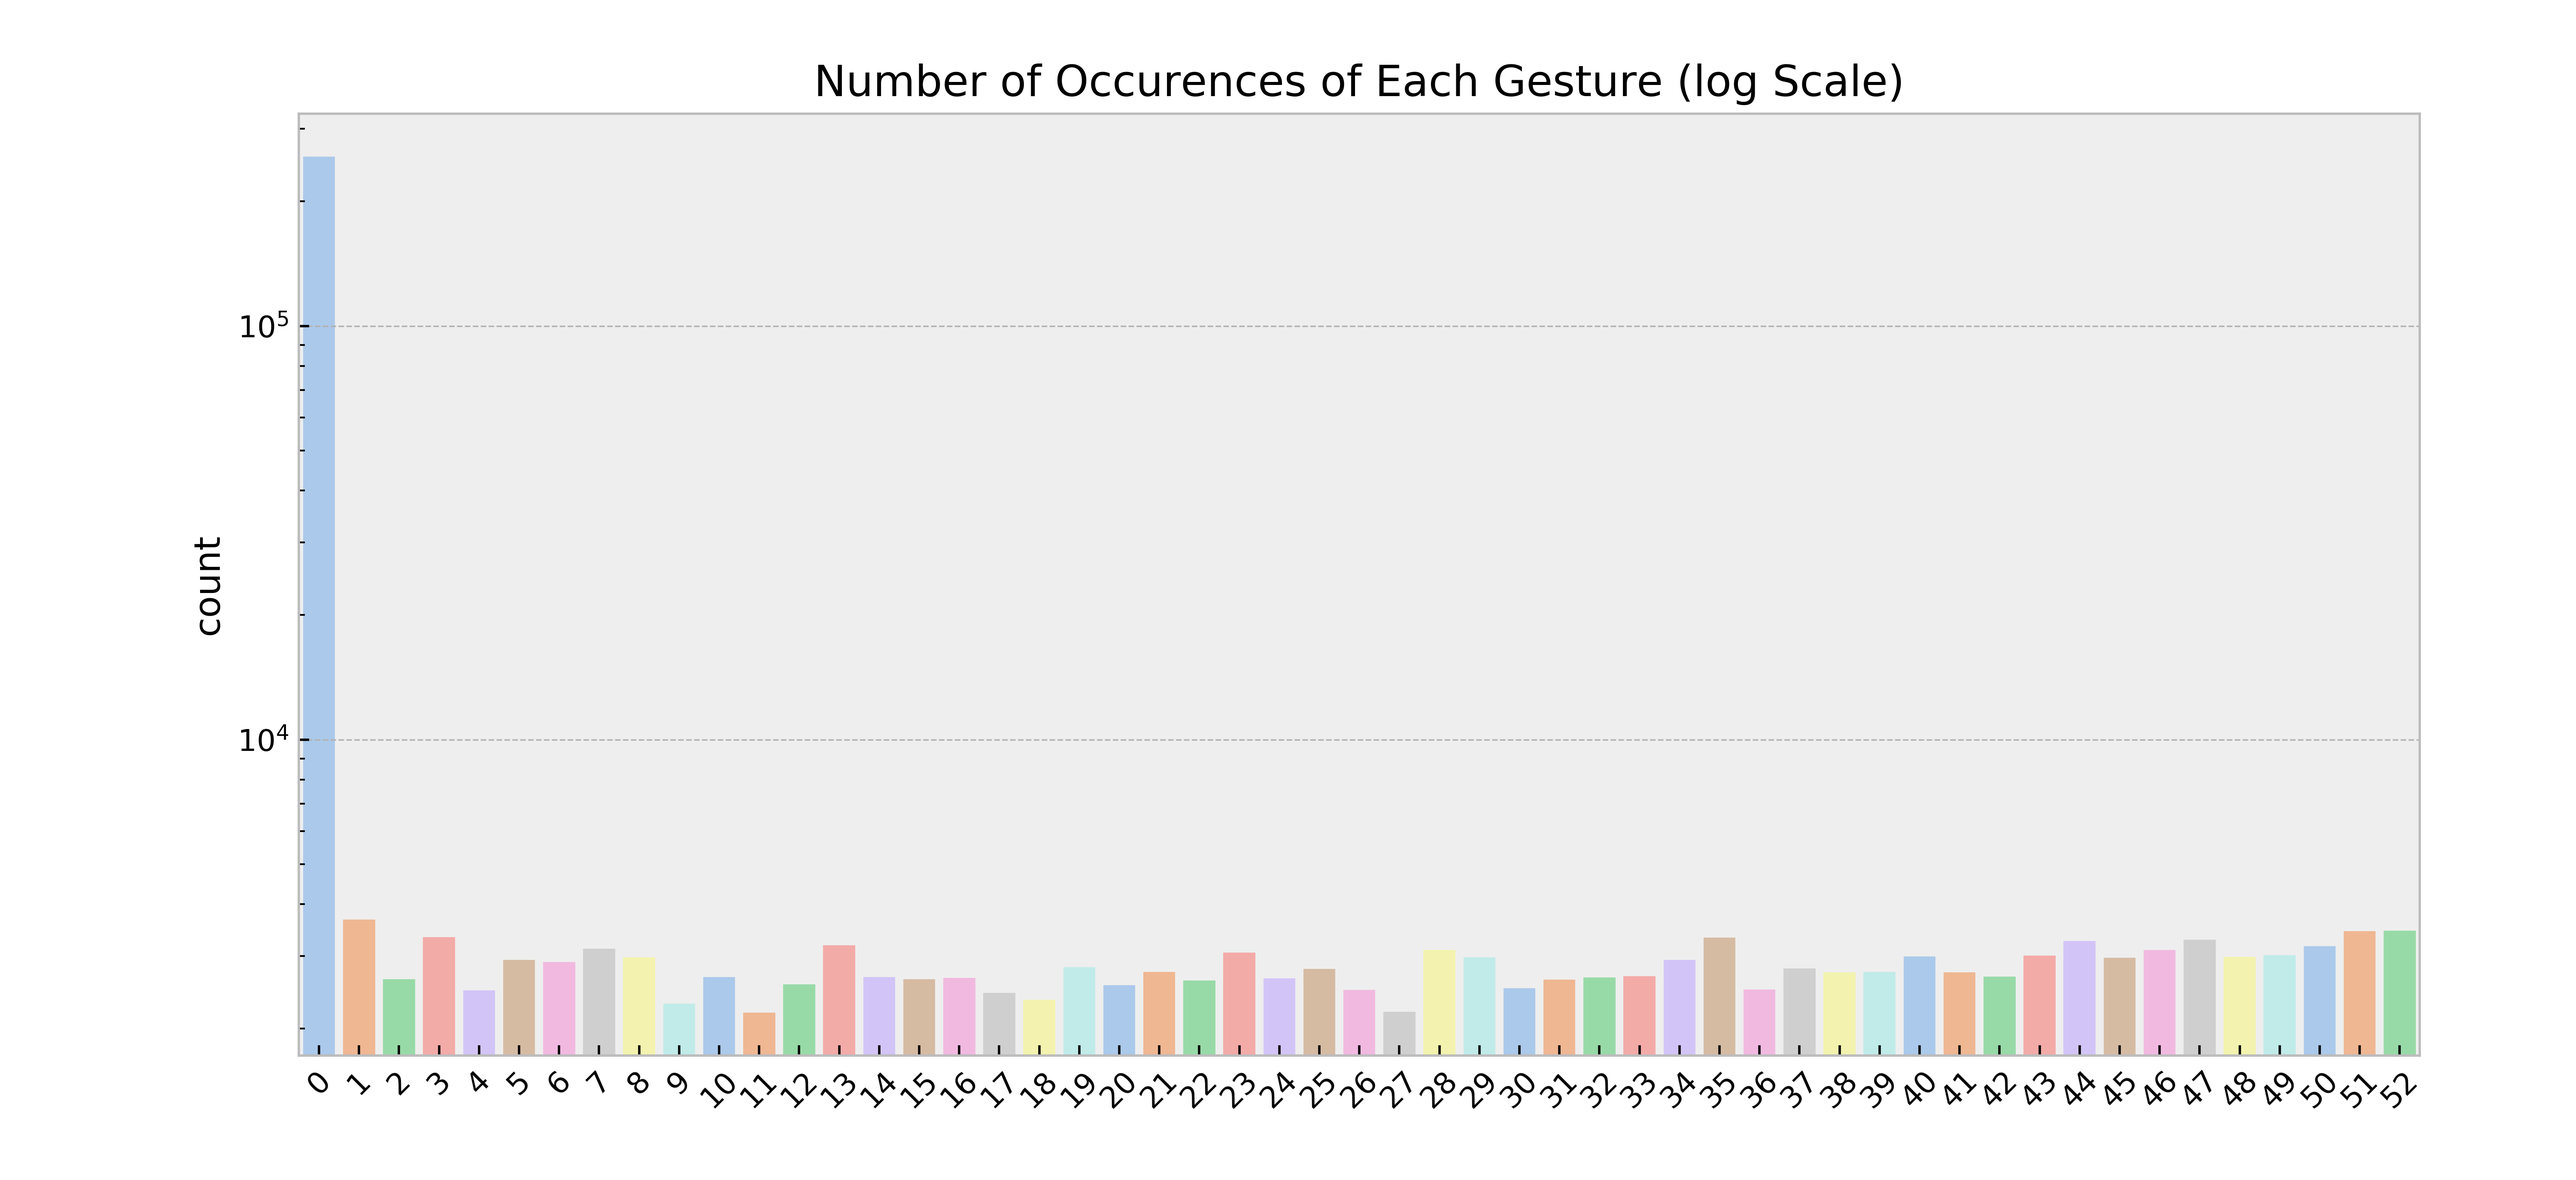
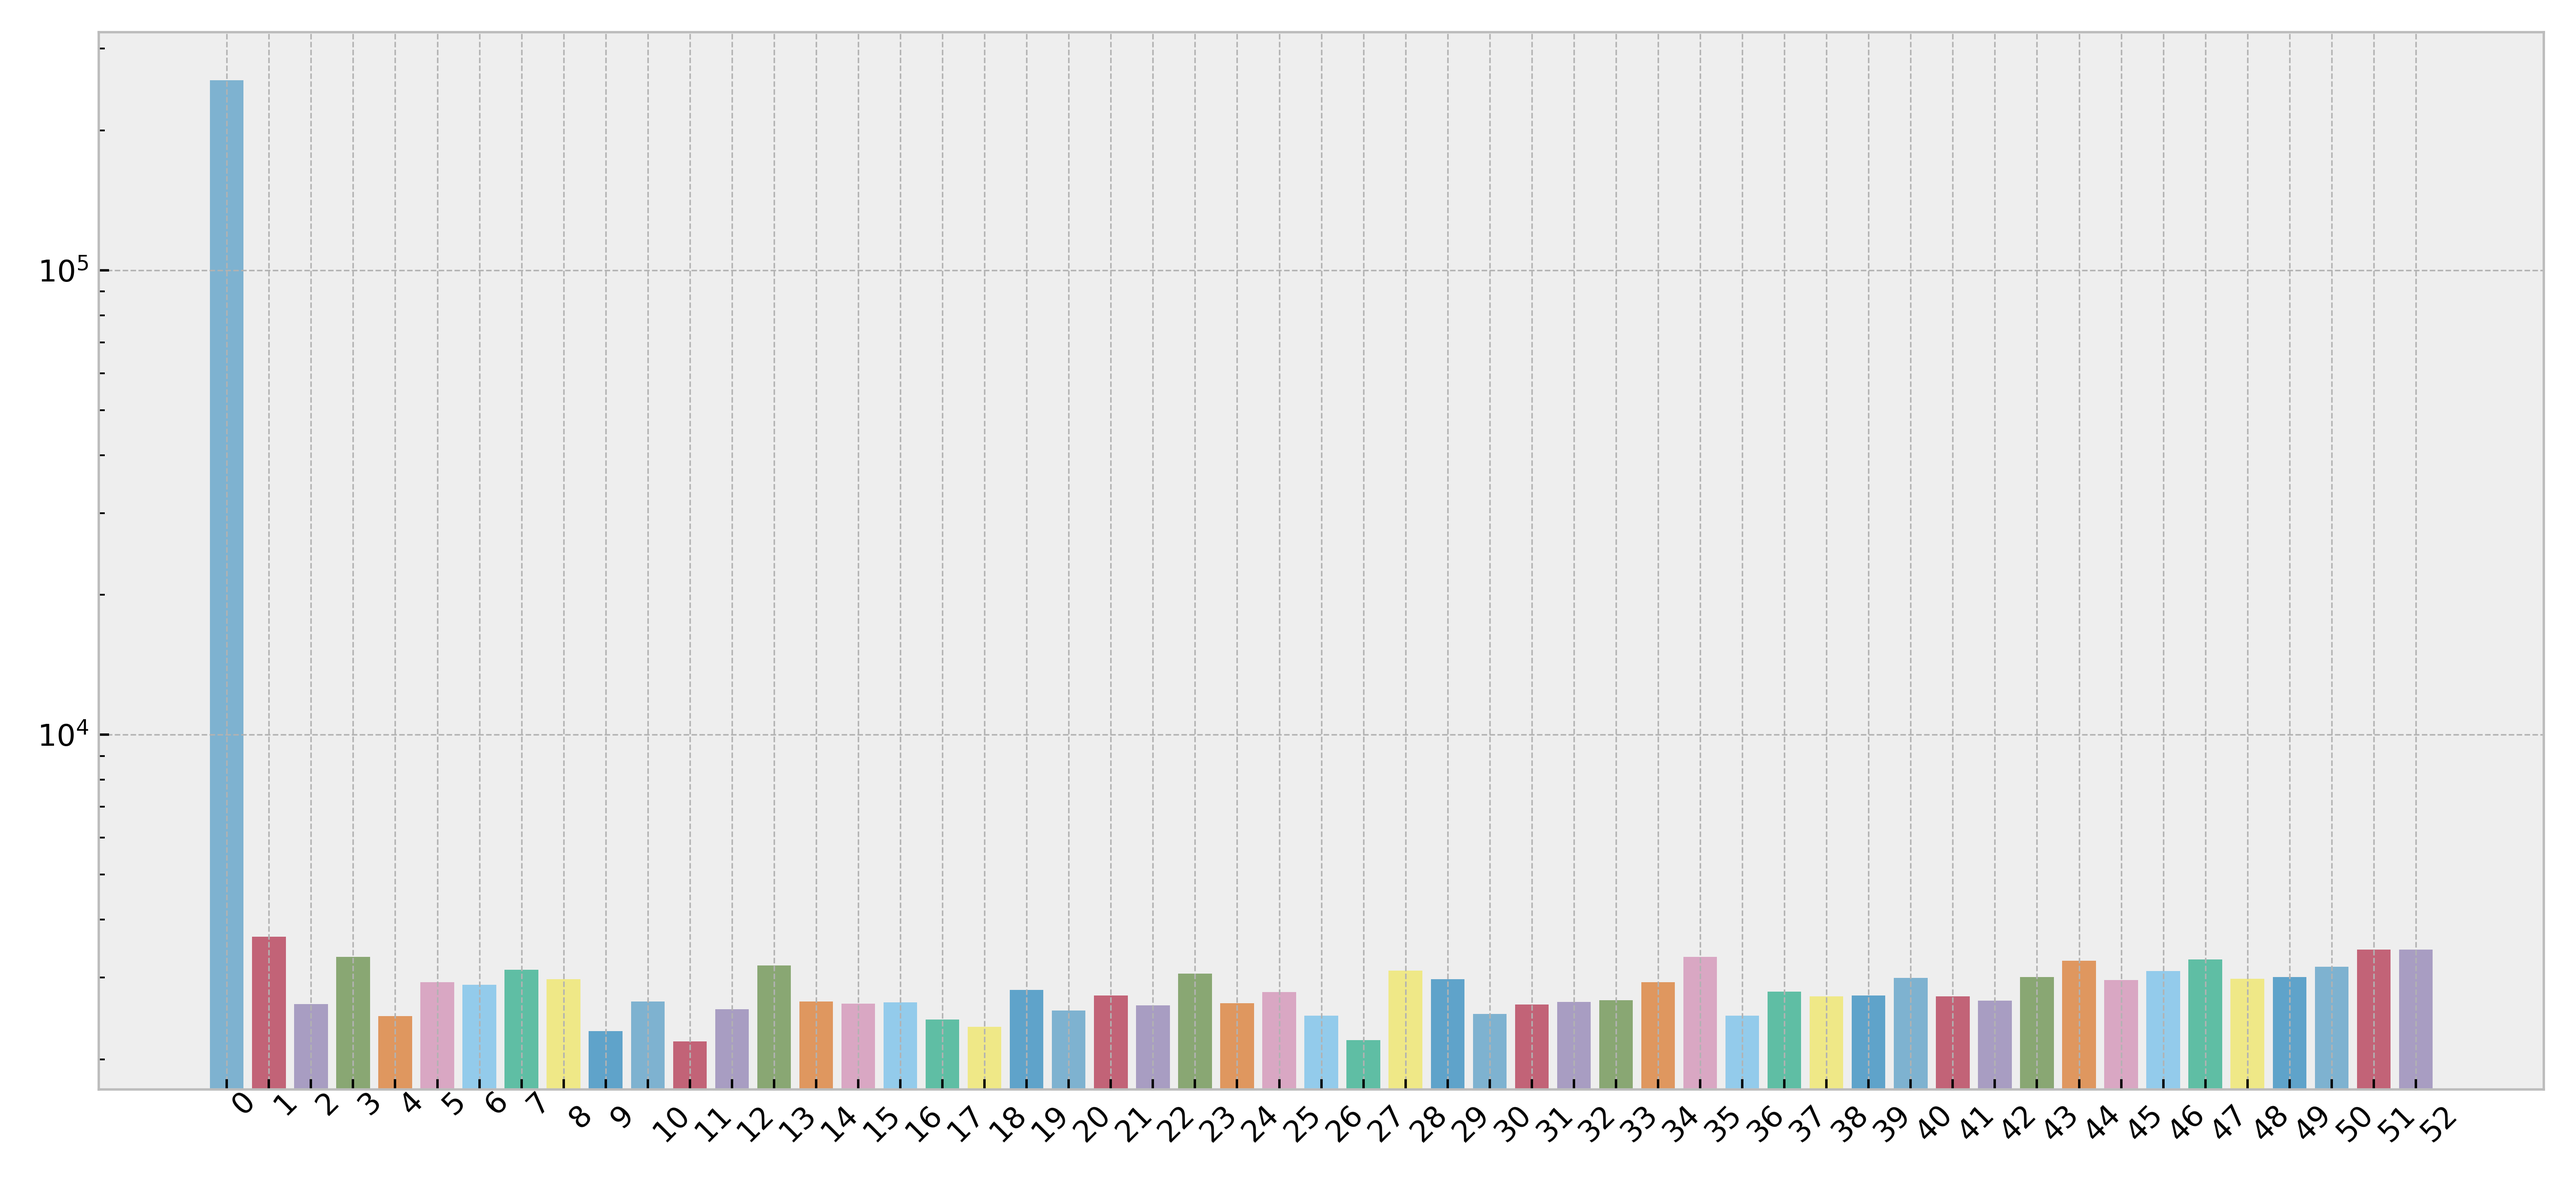
updated plotting theme for gesture distribution

Changed region(s): [[0.0623, 0.0618, 0.9662, 0.9582], [0.3117, 0.0618, 0.748, 0.0927], [0.0, 0.2164, 0.0312, 0.2473]]

diff --git a/src/scratch/cd_final_results.py b/src/scratch/cd_final_results.py
@@ -100,16 +100,35 @@ np.array(ttl).mean()
 
 
 
-counts = sns.countplot(y, palette="pastel")
-counts.set(yscale="log")
-plt.title("Number of Occurences of Each Gesture (log Scale)")
-for item in counts.get_xticklabels():
-    item.set_rotation(45)
-plt.tight_layout()
-fig = matplotlib.pyplot.gcf()
-fig.set_size_inches(12, 5.5)
-plt.savefig("outputs/count_log.png", dpi=500, size=(12, 5))
+# counts = sns.countplot(y)
+# counts.set(yscale="log")
+# plt.title("Number of Occurences of Each Gesture (log Scale)")
+# for item in counts.get_xticklabels():
+#     item.set_rotation(45)
+# plt.tight_layout()
+# fig = matplotlib.pyplot.gcf()
+# fig.set_size_inches(12, 5.5)
+# plt.savefig("outputs/count_log.png", dpi=500, size=(12, 5))
 
+def makeCountPlot(y):
+    k,v = np.unique(y, return_counts=True)
+    bars = dict(zip(k,v))
+    with plt.style.context('bmh'):
+        fig, ax = plt.subplots(figsize=(12,5.5))
+        for _k,_v in bars.items():
+            ax.bar(x=_k,height=_v, alpha=0.6)
+        # for item in ax.get_xticklabels():
+        #     item.set_rotation(45)
+        # Rotate the tick labels and set their alignment.
+
+        plt.setp(ax.get_xticklabels(), rotation=45,ha="left", rotation_mode="anchor")
+        ax.set_xticks(k)
+        ax.set_xticklabels(k.astype('str'))
+        ax.set_yscale('log')
+        fig.tight_layout()
+    fig.set_size_inches(12, 5.5)
+    plt.savefig("outputs/count_log.png", dpi=500, size=(12, 5))
+makeCountPlot(y)
 lines=[]
 for k,b in baselines.items():
     line = [v for _,v in baselineMetrics(y,b).items()]
